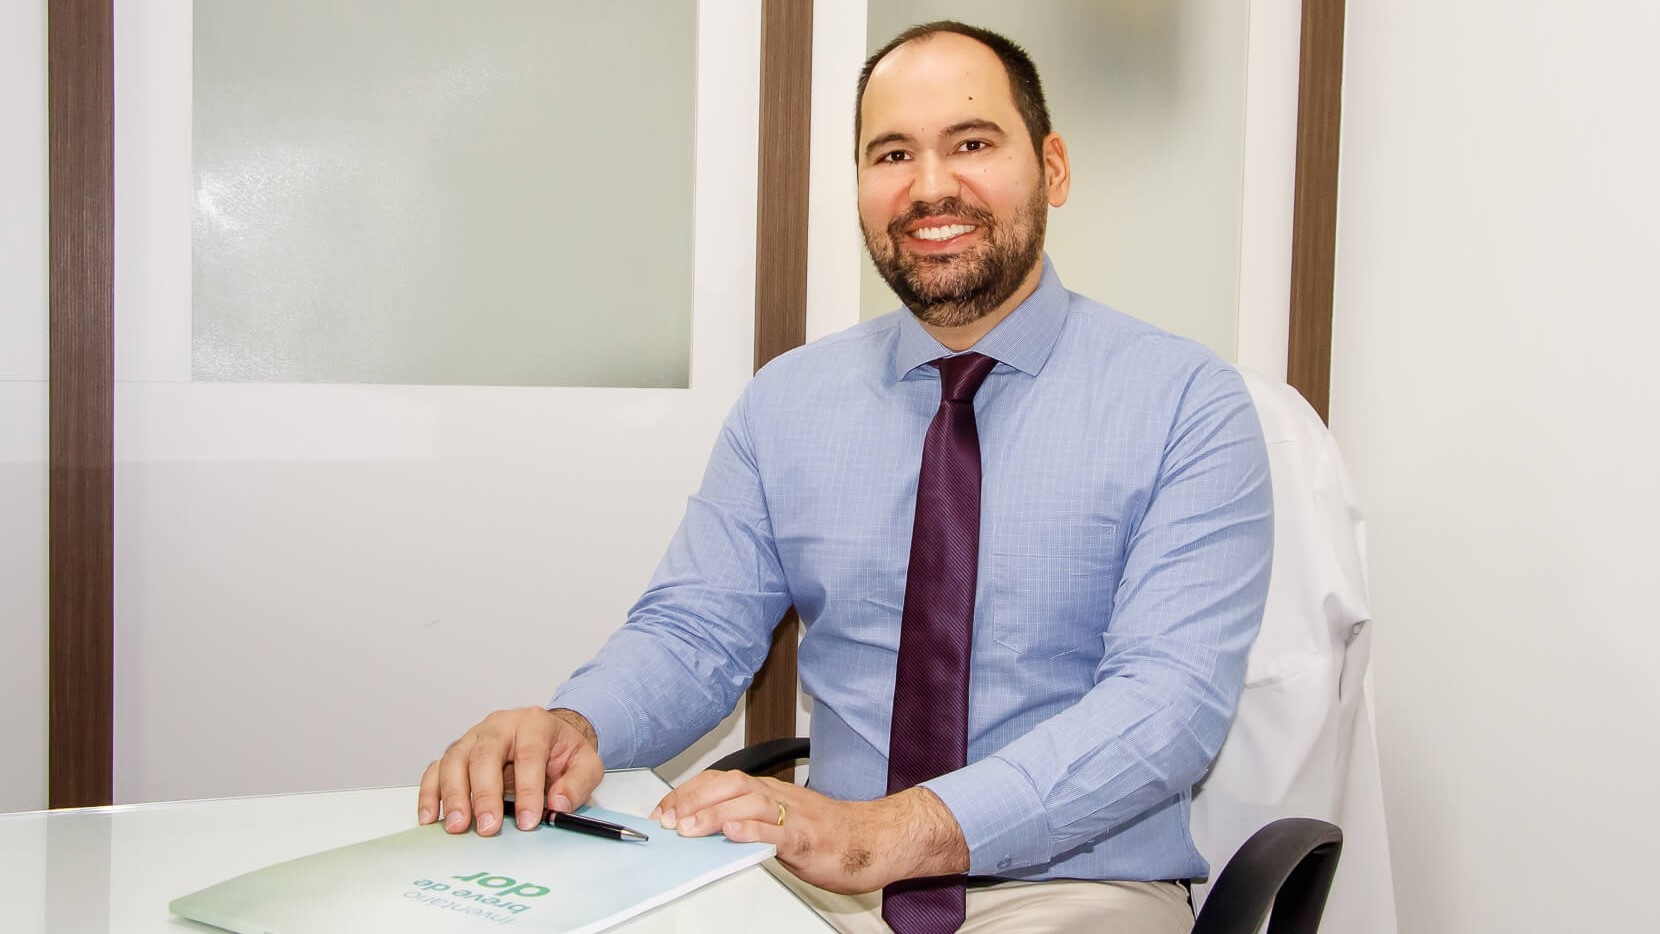
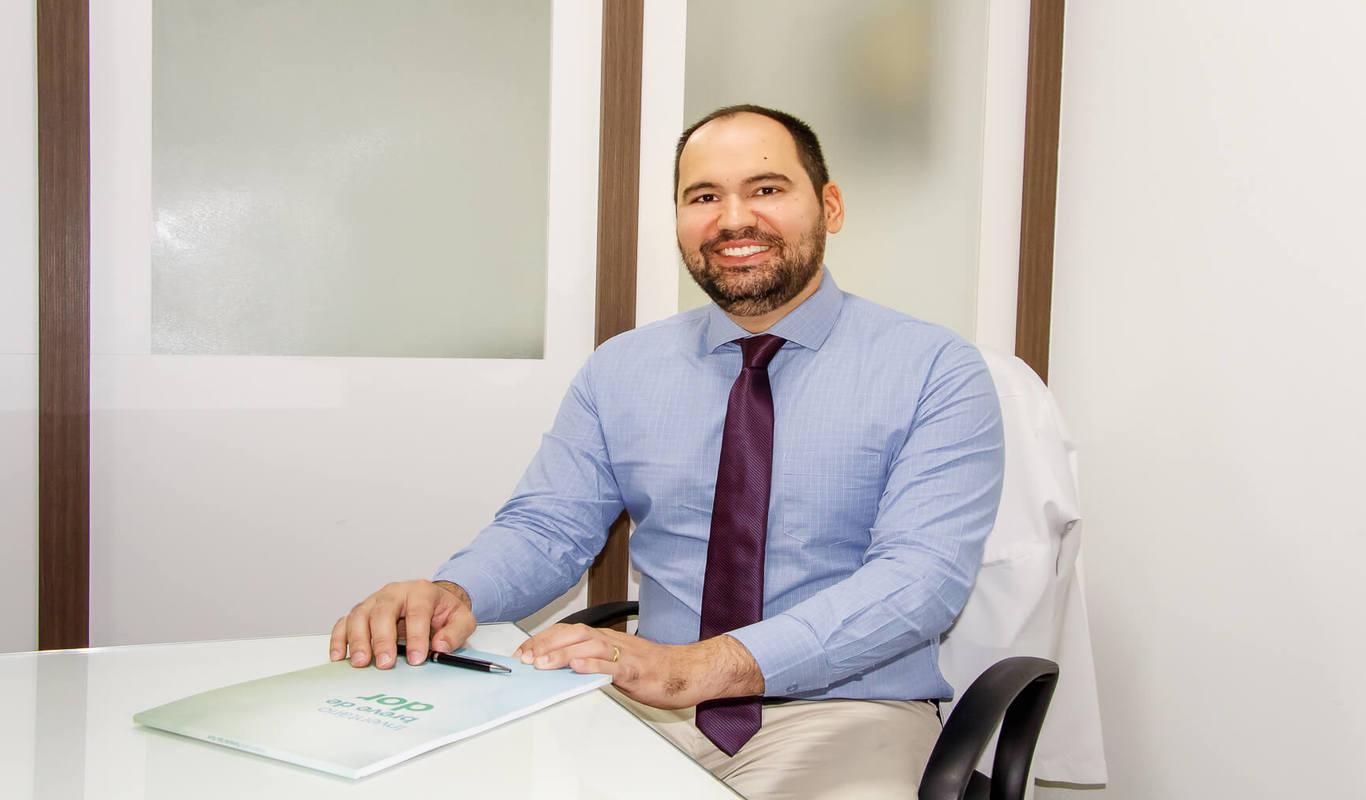
Mudança de imagens

diff --git a/css/style.css b/css/style.css
@@ -176,7 +176,7 @@ h6 {
 #intro {
     width: 100%;
     position: relative;
-    background: url("../img/intro.png") center no-repeat;
+    background: url("../img/consultorio-3.jpg") center no-repeat;
     /* background-size: cover; */
     padding: 400px 0 120px 0;
 }
@@ -452,9 +452,7 @@ h6 {
 .mobile-nav-active .mobile-nav-toggle i {
     color: #fff;
 }
-
-
-
+    
 /*--------------------------------------------------------------
 # Sections
 --------------------------------------------------------------*/
@@ -1373,7 +1371,7 @@ h6 {
     }
 }
 
-@media (max-width: 991px) {
+@media (max-width: 768px) {
     #header {
         height: 60px;
         padding: 10px 0;
